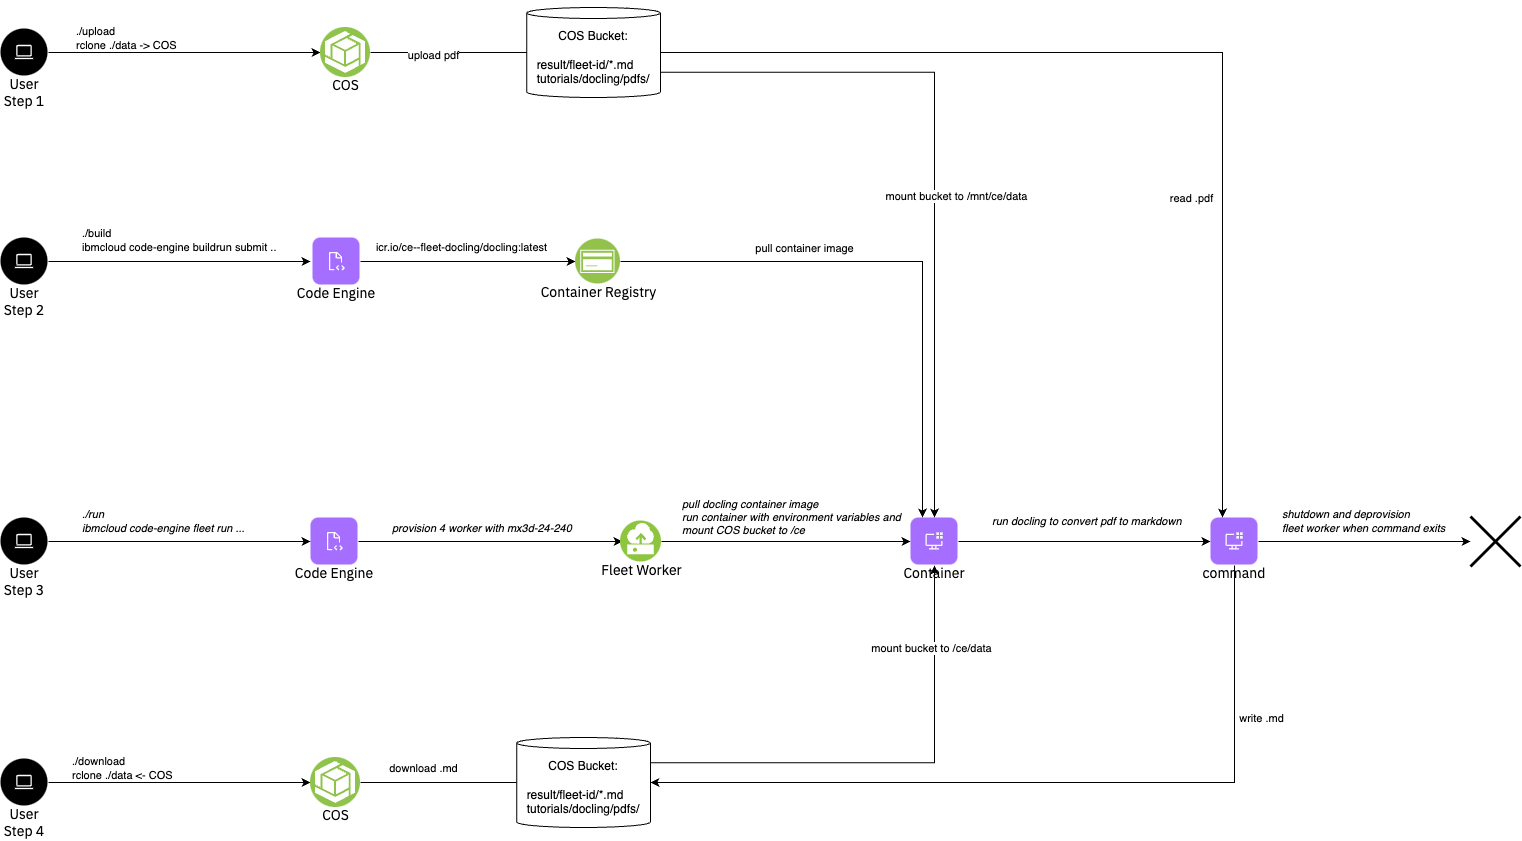
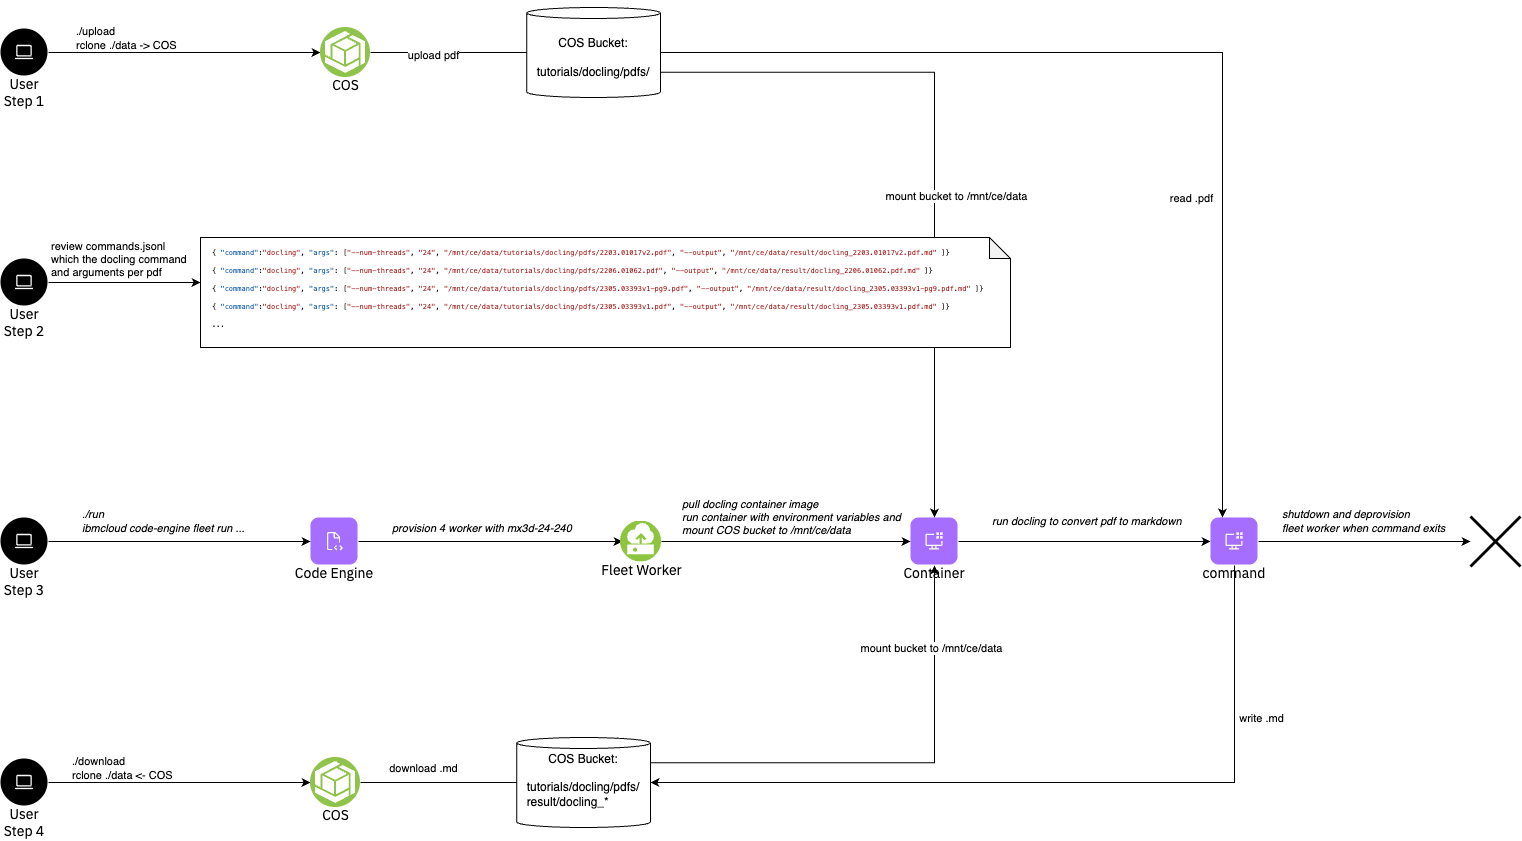
rebase docling example to use official image and tasks-from-file

diff --git a/experimental/serverless-fleets/tutorials/docling/README.md b/experimental/serverless-fleets/tutorials/docling/README.md
@@ -4,8 +4,7 @@ This tutorial provides a comprehensive guide on using Docling to convert PDFs in
 
 Key steps covered in the Tutorial:
 1. Upload the examples PDFs to COS
-2. Containerization with Code Engine: Build the Docling container and push it to a registry for deployment.
-3. Run a fleet of workers that automatically runs the container, ensuring scalability and efficiency.
+2. Run a fleet of workers that automatically runs the official docling container, ensuring scalability and efficiency.
 4. Download the resulting markdown files from COS
 
 This setup is ideal for automating document conversion workflows in a cost-effective, serverless environment.
@@ -26,17 +25,39 @@ ls data/tutorials/docling/pdfs
 ./upload
 ```
 
-### Step 2 - Build and Push the container registry
+### Step 2 - Review the commands
 
-Build the container image using Code Engine's build capabilities by running the following command in the `tutorials/docling` directory.
+Review the `commands.jsonl` which defines the tasks to run the docling command and arguments for each of the pdfs.
 ```
 cd tutorials/docling
-./build
+cat commands.jsonl
 ```
+
+<a name="Output"></a>
+<details>
+  <summary>Output</summary>
+
+```
+➜  cat commands.jsonl
+
+{ "command":"docling", "args": ["--num-threads", "24", "/mnt/ce/data/tutorials/docling/pdfs/2203.01017v2.pdf", "--output", "/mnt/ce/data/result/docling_2203.01017v2.pdf.md" ]}
+{ "command":"docling", "args": ["--num-threads", "24", "/mnt/ce/data/tutorials/docling/pdfs/2206.01062.pdf", "--output", "/mnt/ce/data/result/docling_2206.01062.pdf.md" ]}
+{ "command":"docling", "args": ["--num-threads", "24", "/mnt/ce/data/tutorials/docling/pdfs/2305.03393v1-pg9.pdf", "--output", "/mnt/ce/data/result/docling_2305.03393v1-pg9.pdf.md" ]}
+{ "command":"docling", "args": ["--num-threads", "24", "/mnt/ce/data/tutorials/docling/pdfs/2305.03393v1.pdf", "--output", "/mnt/ce/data/result/docling_2305.03393v1.pdf.md" ]}
+{ "command":"docling", "args": ["--num-threads", "24", "/mnt/ce/data/tutorials/docling/pdfs/amt_handbook_sample.pdf", "--output", "/mnt/ce/data/result/docling_amt_handbook_sample.pdf.md" ]}
+{ "command":"docling", "args": ["--num-threads", "24", "/mnt/ce/data/tutorials/docling/pdfs/code_and_formula.pdf", "--output", "/mnt/ce/data/result/docling_code_and_formula.pdf.md" ]}
+{ "command":"docling", "args": ["--num-threads", "24", "/mnt/ce/data/tutorials/docling/pdfs/picture_classification.pdf", "--output", "/mnt/ce/data/result/docling_picture_classification.pdf.md" ]}
+{ "command":"docling", "args": ["--num-threads", "24", "/mnt/ce/data/tutorials/docling/pdfs/redp5110_sampled.pdf", "--output", "/mnt/ce/data/result/docling_redp5110_sampled.pdf.md" ]}
+{ "command":"docling", "args": ["--num-threads", "24", "/mnt/ce/data/tutorials/docling/pdfs/right_to_left_01.pdf", "--output", "/mnt/ce/data/result/docling_right_to_left_01.pdf.md" ]}
+{ "command":"docling", "args": ["--num-threads", "24", "/mnt/ce/data/tutorials/docling/pdfs/right_to_left_02.pdf", "--output", "/mnt/ce/data/result/docling_right_to_left_02.pdf.md" ]}
+{ "command":"docling", "args": ["--num-threads", "24", "/mnt/ce/data/tutorials/docling/pdfs/right_to_left_03.pdf", "--output", "/mnt/ce/data/result/docling_right_to_left_03.pdf.md" ]}
+```
+</details>
+<br/>
 
 ### Step 3 - Run the Fleet
 
-Now run the fleet to process the PDFs. In this tutorial we use the static array index with `--task 11` to specify the tasks for the 11 pdfs. The command is a bash script which is using the `CE_TASK_ID`, which contains values `0..10`, to fetch the pdf file. It's then running docling with 24 CPUs on the mx3d-24x240 worker. Therefore it's only running one instance per worker and utilizing the full worker. We run 4 instance and workers in parallel. Run the fleet with the following command in the `tutorials/docling` directory.
+Now run the fleet to process the PDFs. In this tutorial we use the static array index with `--tasks-from-file commands.jsonl` to specify the tasks for the 11 pdfs. We give each task 24 vCPU, run docling with `--num-threads 24` and choose a mx3d-24x240 worker profile with 24 vCPU. Therefore we run only 1 docling command per worker at a time and utilize the full worker per pdf processing. We run `--max-scale 4` instances and workers in parallel. Launch the fleet with the following command in the `tutorials/docling` directory.
 ```
 ./run
 ```
@@ -53,12 +74,9 @@ ibmcloud code-engine experimental fleet run --name fleet-0eb02f2f-1
   --registry-secret fleet-registry-secret
   --worker-profile mx3d-24x240
   --max-scale 4
-  --tasks 11
+  --tasks-from-file commands.jsonl
   --cpu 24
   --memory 240G
-  --command=bash
-  --arg -c
-  --arg mkdir -p /mnt/ce/data/result/$CE_FLEET_ID/; cd /mnt/ce/data/tutorials/docling/pdfs; files=( * ); docling --artifacts-path=/root/.cache/docling/models ${files[CE_TASK_ID]} --num-threads 24 --output /mnt/ce/data/result/$CE_FLEET_ID/;
 Preparing your tasks: ⠼ Please wait...took 11.233582 seconds.
 Preparing your tasks: ⠴ Please wait...
 COS Bucket used 'ce-fleet-sandbox-data-fbfdde1d'...
@@ -139,13 +157,22 @@ Succeeded Tasks:  0
 </details>
 <br/>
 
-If you like you can jump to the machine and see docling processing by running the following command in the root directory:
+(optional) If you like you can jump to the machine and see docling processing by running the following command in the root directory:
 ```
 ./jump <IP>
 ```
 
 You can use `htop` to see that docling is processing the PDFs
 ![](../../images/examples_docling.jpg)
+
+
+#### Playing with more parallism
+
+If you want to modify the tutorial to add some more parallism, e.g. to run 4 docling commands per worker, you could change the arguments and run script as follows: 
+1. the arguments in commands.jsonl to `--num-threads 6`
+2. the cpu per task to `--cpu 6`
+Now, with `--max-scale 4` you would only get a single worker. Modify `--max-scale 8` to get 2 workers, each processing 4 docling commands.
+
 
 ### Step 4 - Download results
 
@@ -156,7 +183,7 @@ Download the results from the COS by running the following command in the root d
 
 You can find the results under
 ```
-ls -l data/result/<fleet-id>/
+ls -l data/result/docling_*
 ```
 
 
